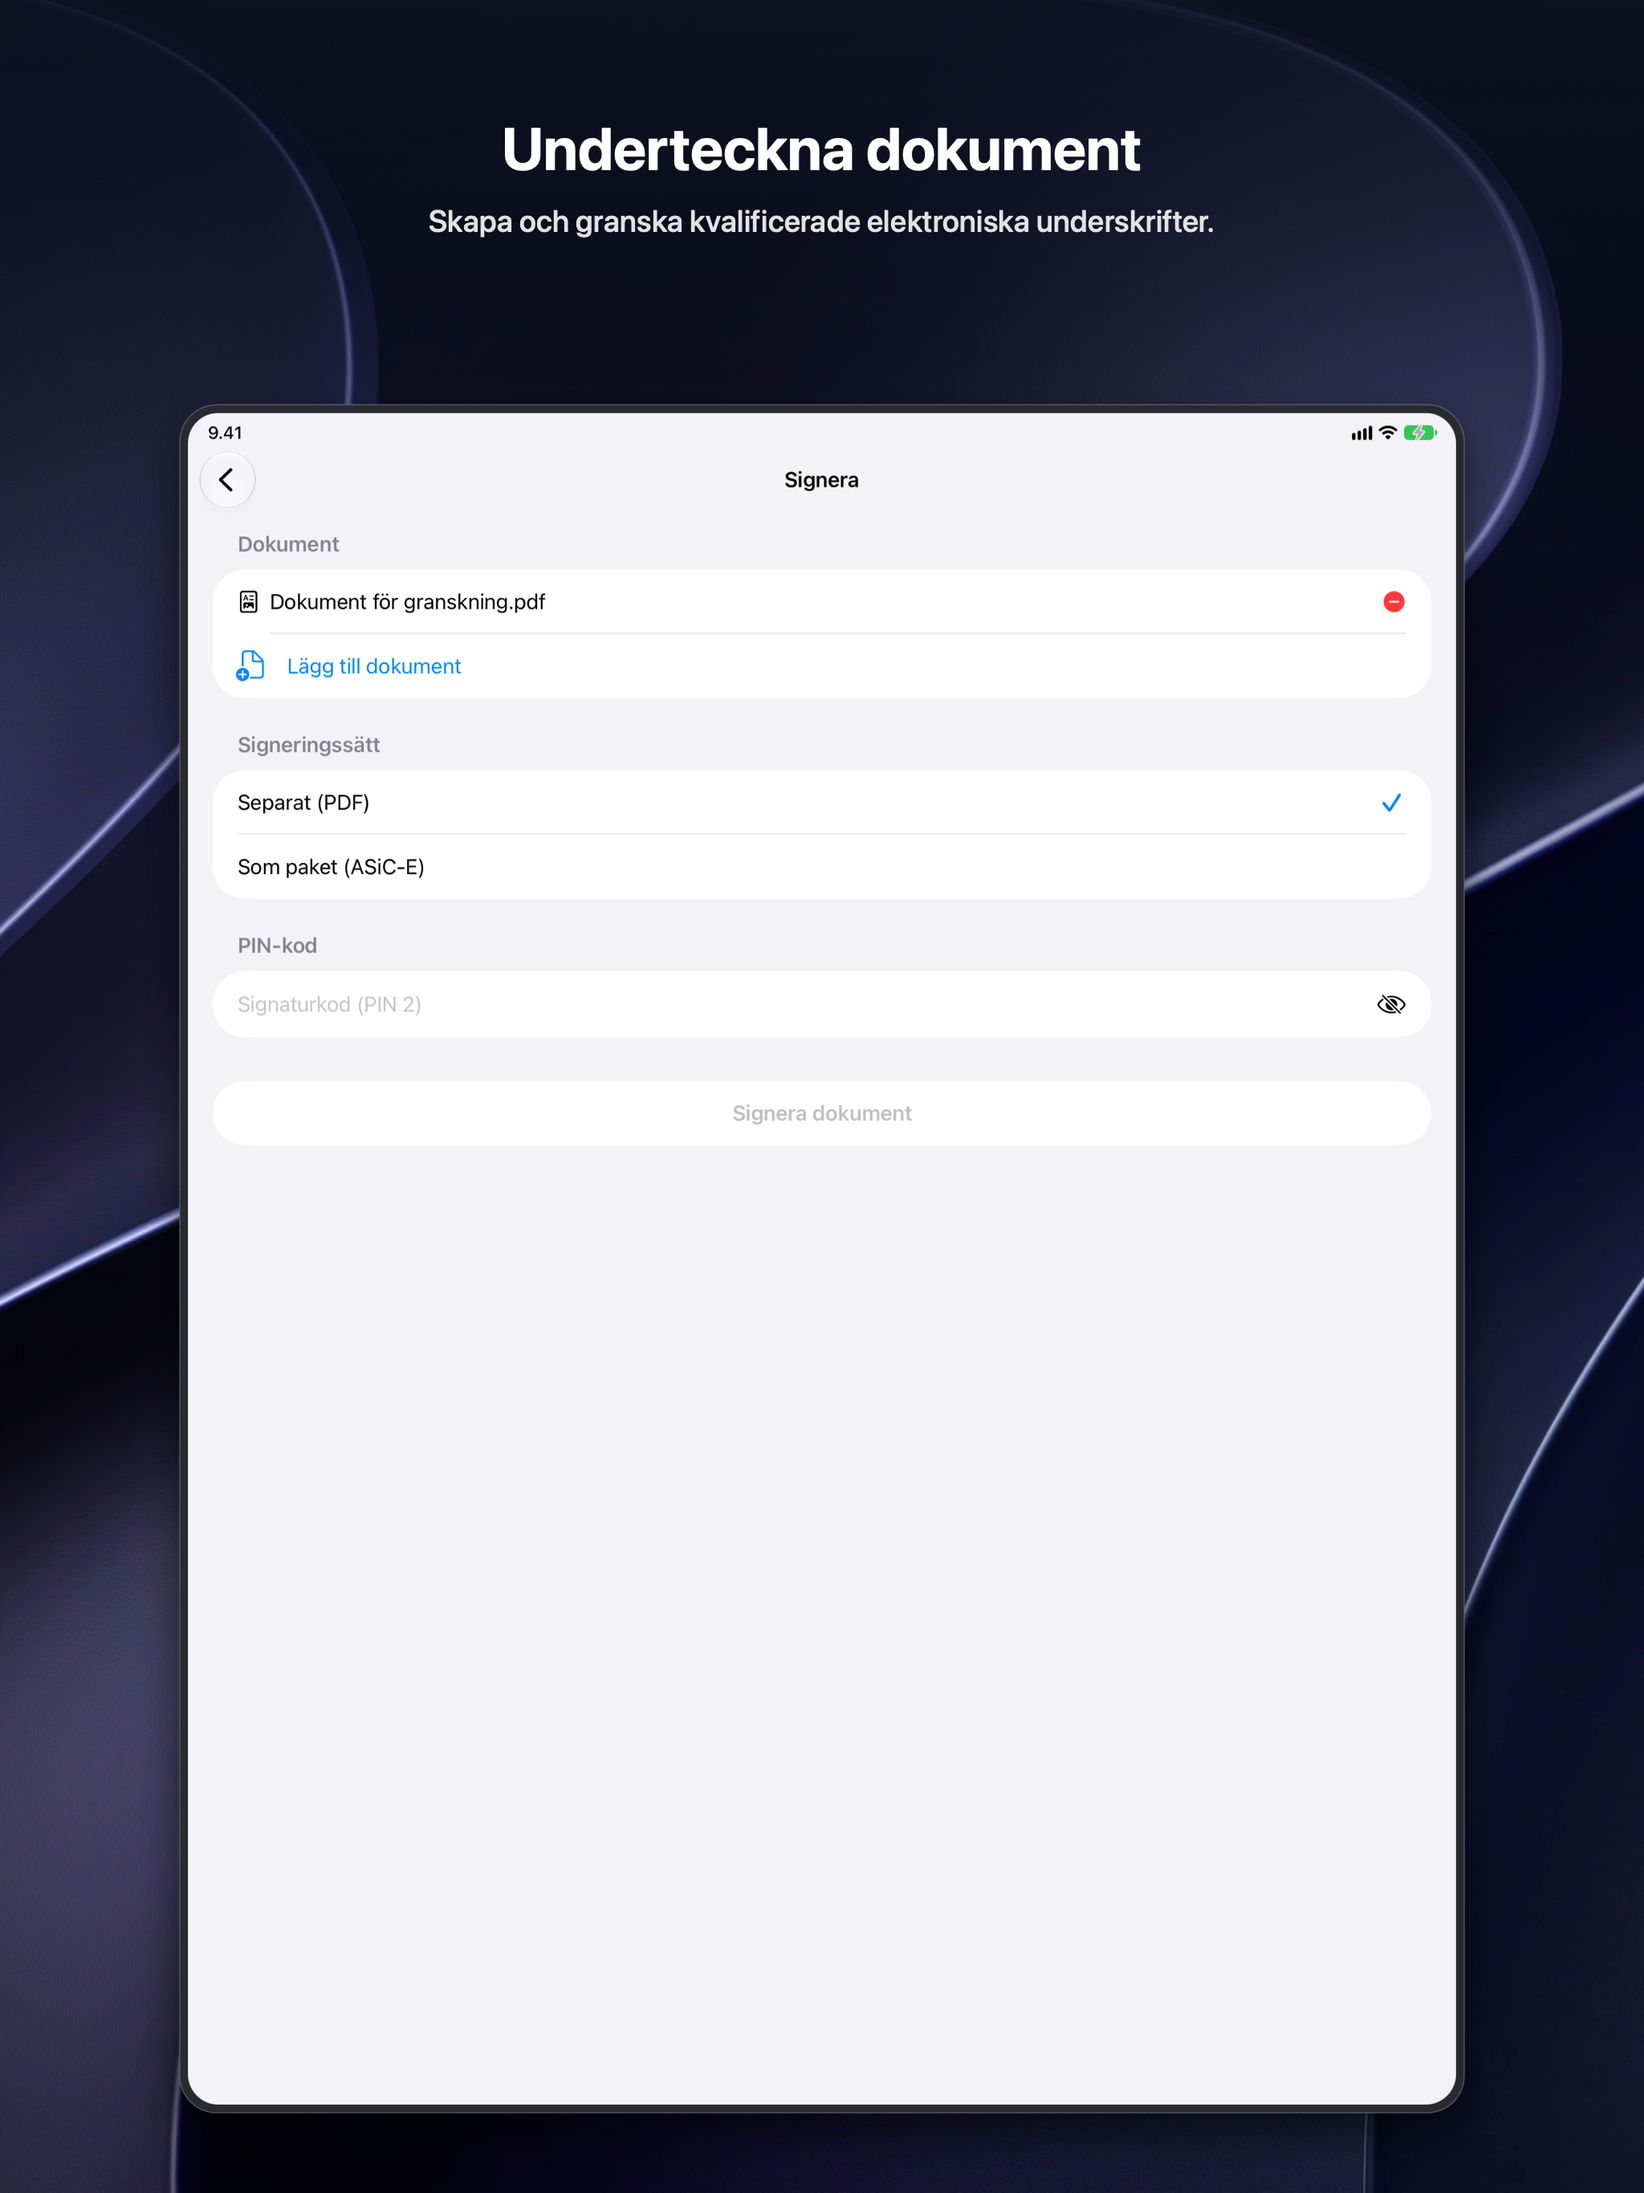
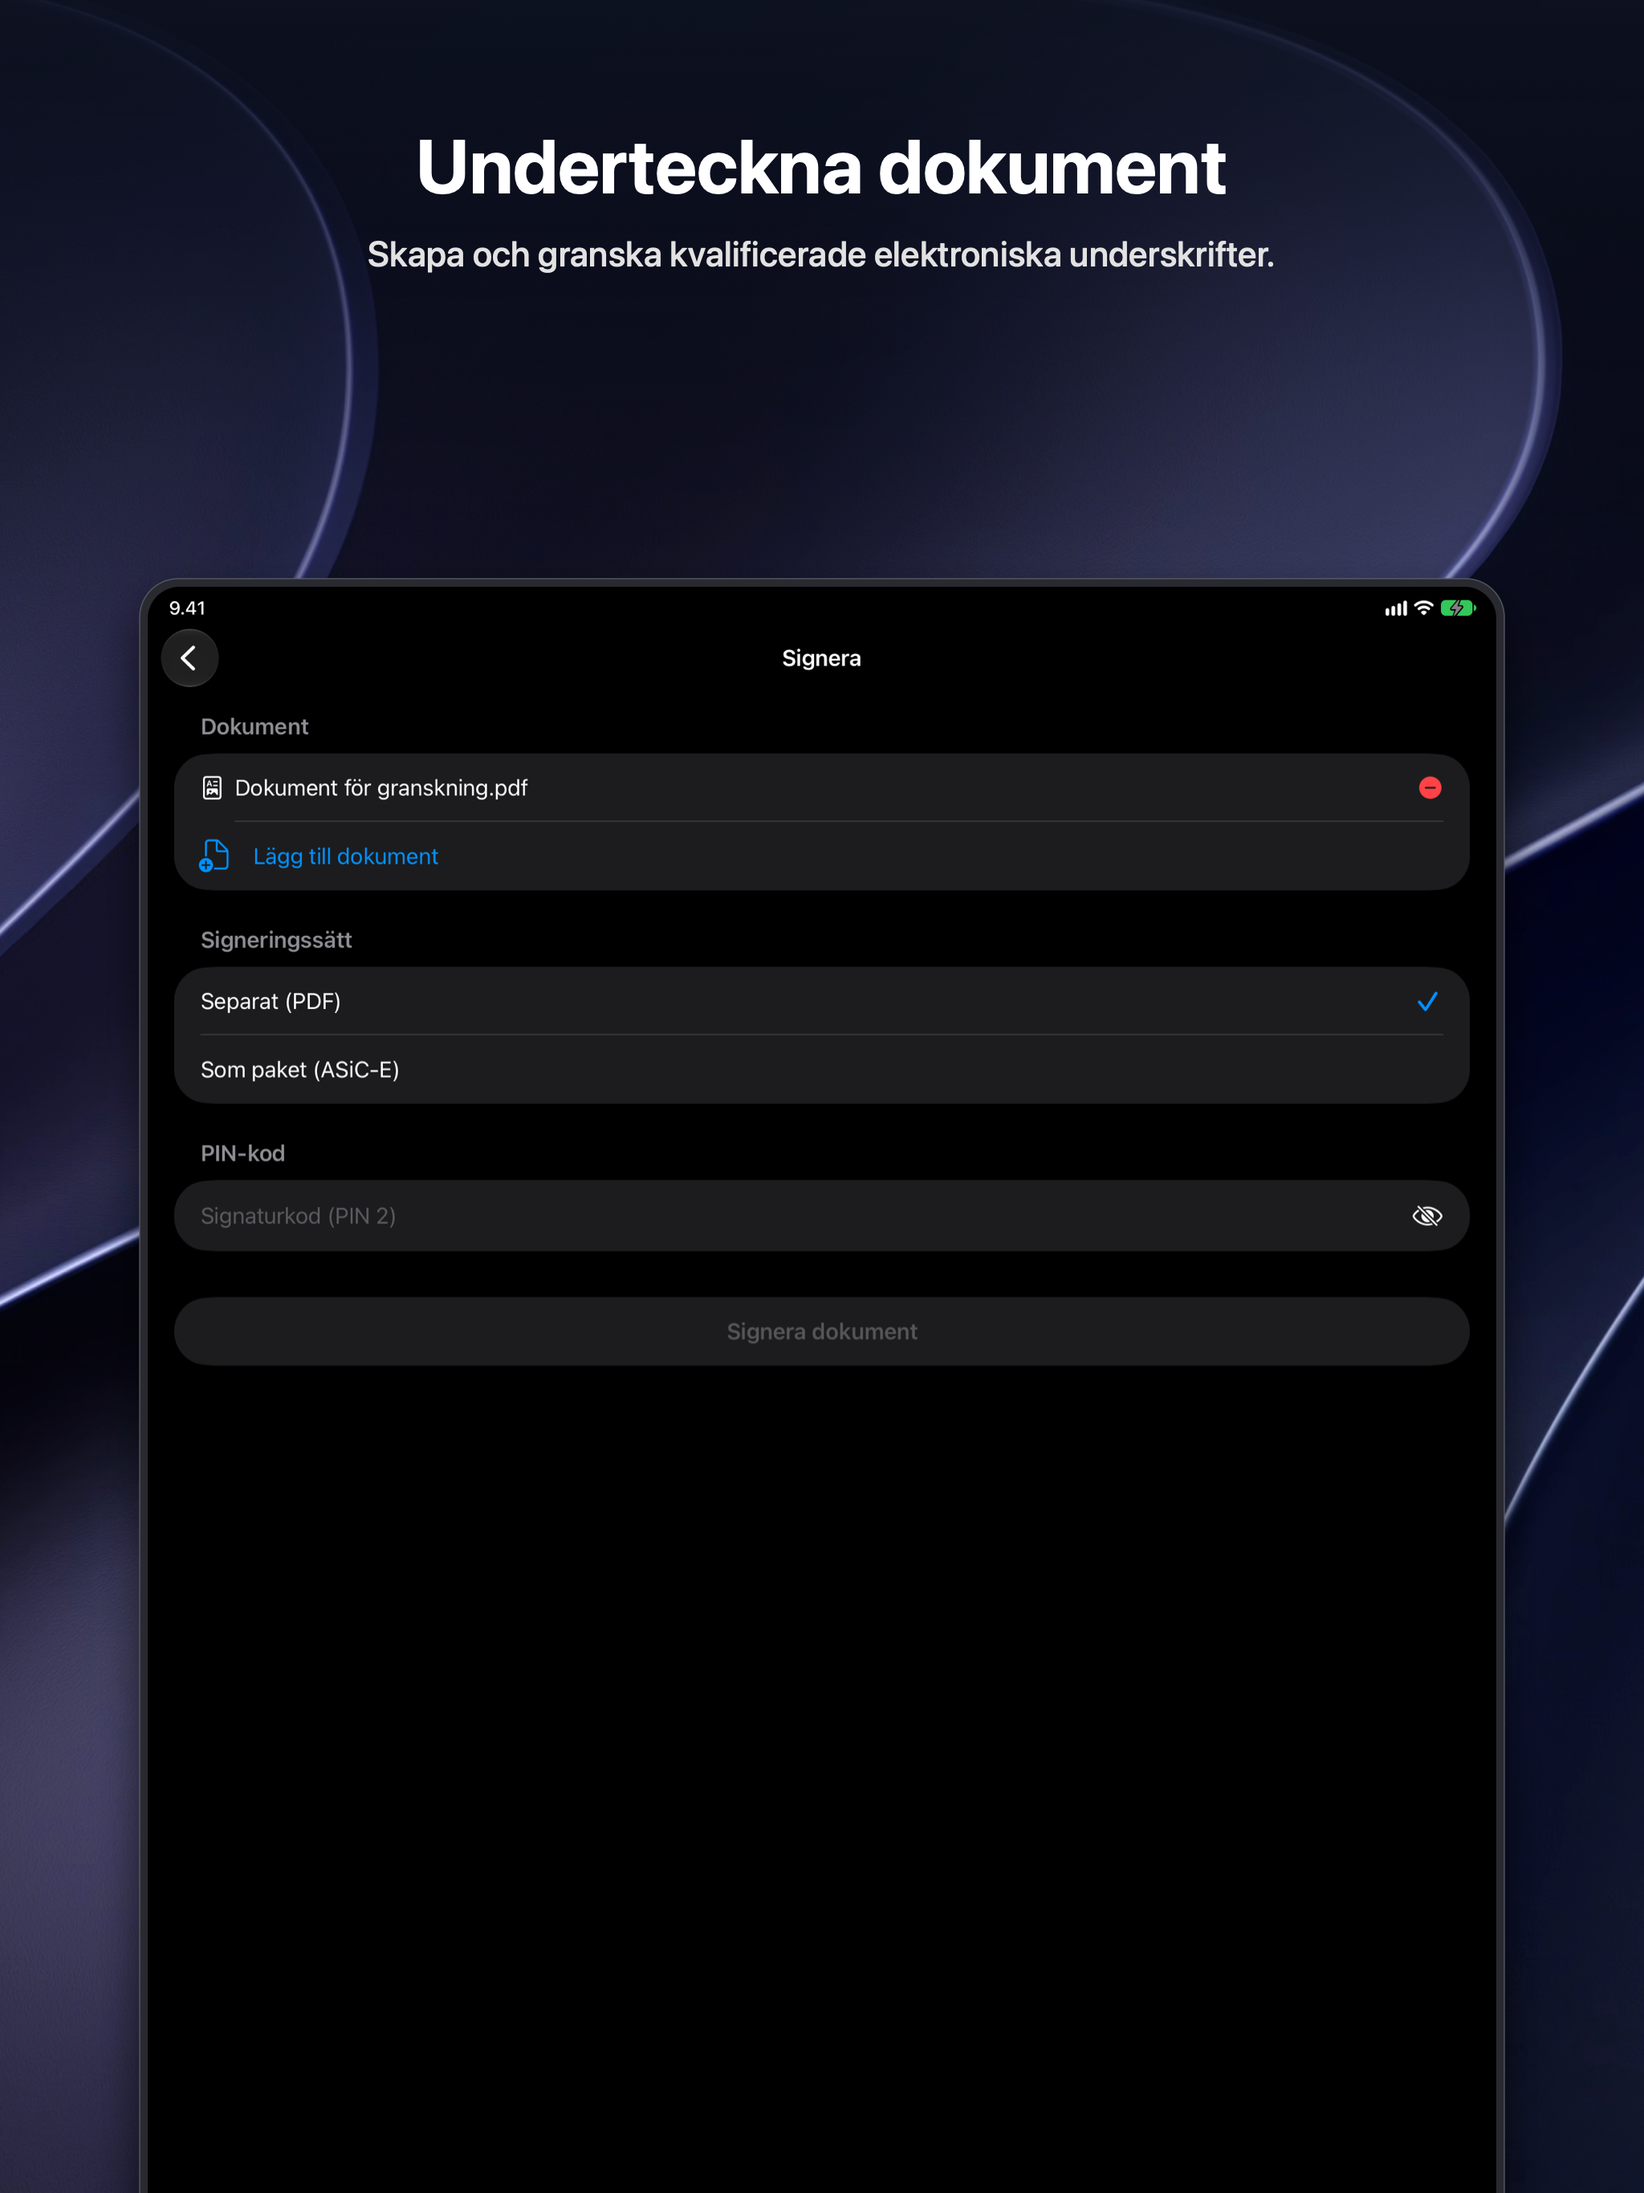
Update remote access label and refresh dark mode store screenshots
Update 'Remote' ('Etä') labels across the UI and string catalogs to
'Remote Access' ('Etäkäyttö' in Finnish, 'Fjärråtkomst' in Swedish).

Switch iOS and iPad simulator captures to Dark Mode and bleed device
frames off the bottom margin to accommodate larger headline and subtitle
typography in App Store screenshots.

Regenerate all iPhone and iPad App Store marketing screenshots across
fi, en-US, and sv locales.

diff --git a/Scripts/generate-store-screenshots.swift b/Scripts/generate-store-screenshots.swift
@@ -352,11 +352,11 @@ func renderIOS(locale: String, slide: SlideData) {
         context.fill(CGRect(x: 0, y: 0, width: width, height: height))
     }
 
-    var currentTopY = CGFloat(height) - 120
+    var currentTopY = CGFloat(height) - 130
 
     // 2. Title
     let titleLength = slide.title.count
-    let titleFontSize: CGFloat = titleLength > 36 ? 56 : (titleLength > 25 ? 62 : 68)
+    let titleFontSize: CGFloat = titleLength > 36 ? 70 : (titleLength > 25 ? 76 : 82)
     let titleFont = NSFont.systemFont(ofSize: titleFontSize, weight: .bold)
     let titleStyle = NSMutableParagraphStyle()
     titleStyle.alignment = .center
@@ -367,18 +367,18 @@ func renderIOS(locale: String, slide: SlideData) {
         .paragraphStyle: titleStyle
     ]
     let titleBounding = (slide.title as NSString).boundingRect(
-        with: CGSize(width: CGFloat(width - 140), height: 300),
+        with: CGSize(width: CGFloat(width - 120), height: 400),
         options: [.usesLineFragmentOrigin, .usesFontLeading],
         attributes: titleAttr
     )
     let titleHeight = ceil(titleBounding.height)
-    let titleRect = CGRect(x: 70, y: currentTopY - titleHeight, width: CGFloat(width - 140), height: titleHeight)
+    let titleRect = CGRect(x: 60, y: currentTopY - titleHeight, width: CGFloat(width - 120), height: titleHeight)
     (slide.title as NSString).draw(in: titleRect, withAttributes: titleAttr)
-    currentTopY -= (titleHeight + 20)
+    currentTopY -= (titleHeight + 24)
 
     // 3. Subtitle
     let subLength = slide.subtitle.count
-    let subFontSize: CGFloat = subLength > 50 ? 34 : 38
+    let subFontSize: CGFloat = subLength > 50 ? 40 : 44
     let subFont = NSFont.systemFont(ofSize: subFontSize, weight: .medium)
     let subStyle = NSMutableParagraphStyle()
     subStyle.alignment = .center
@@ -389,22 +389,22 @@ func renderIOS(locale: String, slide: SlideData) {
         .paragraphStyle: subStyle
     ]
     let subBounding = (slide.subtitle as NSString).boundingRect(
-        with: CGSize(width: CGFloat(width - 160), height: 200),
+        with: CGSize(width: CGFloat(width - 140), height: 250),
         options: [.usesLineFragmentOrigin, .usesFontLeading],
         attributes: subAttr
     )
     let subHeight = ceil(subBounding.height)
-    let subRect = CGRect(x: 80, y: currentTopY - subHeight, width: CGFloat(width - 160), height: subHeight)
+    let subRect = CGRect(x: 70, y: currentTopY - subHeight, width: CGFloat(width - 140), height: subHeight)
     (slide.subtitle as NSString).draw(in: subRect, withAttributes: subAttr)
 
     // 4. Phone Screen presentation
     let phoneURL = assetsDir.appendingPathComponent(slide.assetName)
     if let phoneImg = NSImage(contentsOf: phoneURL) {
-        let targetWidth: CGFloat = 1000
-        let targetHeight: CGFloat = targetWidth * (2796.0 / 1290.0) // 2167.44
+        let targetWidth: CGFloat = 1040
+        let targetHeight: CGFloat = targetWidth * (2796.0 / 1290.0) // 2254.14
         let phoneX = (CGFloat(width) - targetWidth) / 2
-        let phoneY: CGFloat = 90
-        let cornerRadius: CGFloat = 54.0
+        let phoneY: CGFloat = -180
+        let cornerRadius: CGFloat = 56.0
 
         // Bezel & Ambient Shadow
         context.saveGState()
@@ -498,11 +498,11 @@ func renderIPad(locale: String, slide: SlideData) {
         context.fill(CGRect(x: 0, y: 0, width: width, height: height))
     }
 
-    var currentTopY = CGFloat(height) - 140
+    var currentTopY = CGFloat(height) - 150
 
     // 2. Title
     let titleLength = slide.title.count
-    let titleFontSize: CGFloat = titleLength > 45 ? 68 : 74
+    let titleFontSize: CGFloat = titleLength > 45 ? 82 : (titleLength > 30 ? 88 : 94)
     let titleFont = NSFont.systemFont(ofSize: titleFontSize, weight: .bold)
     let titleStyle = NSMutableParagraphStyle()
     titleStyle.alignment = .center
@@ -513,18 +513,18 @@ func renderIPad(locale: String, slide: SlideData) {
         .paragraphStyle: titleStyle
     ]
     let titleBounding = (slide.title as NSString).boundingRect(
-        with: CGSize(width: CGFloat(width - 200), height: 350),
+        with: CGSize(width: CGFloat(width - 160), height: 450),
         options: [.usesLineFragmentOrigin, .usesFontLeading],
         attributes: titleAttr
     )
     let titleHeight = ceil(titleBounding.height)
-    let titleRect = CGRect(x: 100, y: currentTopY - titleHeight, width: CGFloat(width - 200), height: titleHeight)
+    let titleRect = CGRect(x: 80, y: currentTopY - titleHeight, width: CGFloat(width - 160), height: titleHeight)
     (slide.title as NSString).draw(in: titleRect, withAttributes: titleAttr)
-    currentTopY -= (titleHeight + 24)
+    currentTopY -= (titleHeight + 28)
 
     // 3. Subtitle
     let subLength = slide.subtitle.count
-    let subFontSize: CGFloat = subLength > 55 ? 38 : 42
+    let subFontSize: CGFloat = subLength > 55 ? 44 : 48
     let subFont = NSFont.systemFont(ofSize: subFontSize, weight: .medium)
     let subStyle = NSMutableParagraphStyle()
     subStyle.alignment = .center
@@ -535,22 +535,22 @@ func renderIPad(locale: String, slide: SlideData) {
         .paragraphStyle: subStyle
     ]
     let subBounding = (slide.subtitle as NSString).boundingRect(
-        with: CGSize(width: CGFloat(width - 240), height: 250),
+        with: CGSize(width: CGFloat(width - 200), height: 300),
         options: [.usesLineFragmentOrigin, .usesFontLeading],
         attributes: subAttr
     )
     let subHeight = ceil(subBounding.height)
-    let subRect = CGRect(x: 120, y: currentTopY - subHeight, width: CGFloat(width - 240), height: subHeight)
+    let subRect = CGRect(x: 100, y: currentTopY - subHeight, width: CGFloat(width - 200), height: subHeight)
     (slide.subtitle as NSString).draw(in: subRect, withAttributes: subAttr)
 
     // 4. iPad Screen presentation
     let ipadURL = assetsDir.appendingPathComponent(slide.assetName)
     if let ipadImg = NSImage(contentsOf: ipadURL) {
-        let targetWidth: CGFloat = 1580
-        let targetHeight: CGFloat = targetWidth * (2732.0 / 2048.0) // ~2107.66
+        let targetWidth: CGFloat = 1680
+        let targetHeight: CGFloat = targetWidth * (2732.0 / 2048.0) // ~2241.09
         let ipadX = (CGFloat(width) - targetWidth) / 2
-        let ipadY: CGFloat = 110
-        let cornerRadius: CGFloat = 38.0
+        let ipadY: CGFloat = -240
+        let cornerRadius: CGFloat = 40.0
 
         // Bezel & Ambient Shadow
         context.saveGState()

diff --git a/Tests/RefineIDTests/VirtualIDCardMacOSTests.swift b/Tests/RefineIDTests/VirtualIDCardMacOSTests.swift
@@ -34,7 +34,11 @@
       demo.activate(scenario: .activatedReader)
       #expect(demo.isActive == true)
       #expect(demo.isReaderCardPresent == true)
-      #expect(demo.holderName == "DOE JANE 12345678N")
+      #expect(
+        demo.holderName == "DOE JANE 12345678N"
+          || demo.holderName == "ESIMERKKI ERJA 12345678N"
+          || demo.holderName == "EXEMPEL EVA 12345678N"
+      )
       #expect(demo.hasIdentity == false)
 
       demo.activate(scenario: .registeredNearField)
@@ -206,7 +210,11 @@
       #expect(!faultName.isEmpty)
 
       let title = virtualCardLocalized("title", defaultValue: "Virtual ID Card")
-      #expect(title == "Virtual ID Card")
+      #expect(
+        title == "Virtual ID Card"
+          || title == "Virtuaalikortti"
+          || title == "Virtuellt ID-kort"
+      )
     }
 
     @Test

diff --git a/Sources/App/RappPairingButton.swift b/Sources/App/RappPairingButton.swift
@@ -25,7 +25,7 @@ internal struct RappPairingButton: View {
     } label: {
       RemotePairingGlyph(isConnected: isConnected)
     }
-    .accessibilityLabel(String(localized: "Remote"))
+    .accessibilityLabel(String(localized: "Remote Access"))
     .accessibilityValue(
       isConnected ? "Paired device selected" : "No paired device selected"
     )

diff --git a/Sources/App/CardCredentialsView+RemotePairing.swift b/Sources/App/CardCredentialsView+RemotePairing.swift
@@ -62,7 +62,7 @@ import SwiftUI
           }
         }
         .frame(width: PersonRowLabel.iconWidth)
-        Text(String(localized: "Remote"))
+        Text(String(localized: "Remote Access"))
           .foregroundStyle(
             remoteCardAvailable ? AnyShapeStyle(.primary) : AnyShapeStyle(.secondary)
           )

diff --git a/Sources/App/RappPairingView.swift b/Sources/App/RappPairingView.swift
@@ -60,7 +60,7 @@ internal struct RappPairingView: View {
           servingCardCodeEntry
         }
       }
-      .navigationTitle(String(localized: "Remote"))
+      .navigationTitle(String(localized: "Remote Access"))
       #if os(iOS)
         .navigationBarTitleDisplayMode(.inline)
       #endif

diff --git a/Sources/App/RefineIDSettingsView.swift b/Sources/App/RefineIDSettingsView.swift
@@ -79,7 +79,7 @@
       }
       RemotePairingSettingsView()
         .tabItem {
-          Label(String(localized: "Remote"), systemImage: "key.radiowaves.forward")
+          Label(String(localized: "Remote Access"), systemImage: "key.radiowaves.forward")
         }
         .tag(Pane.remote)
     }
